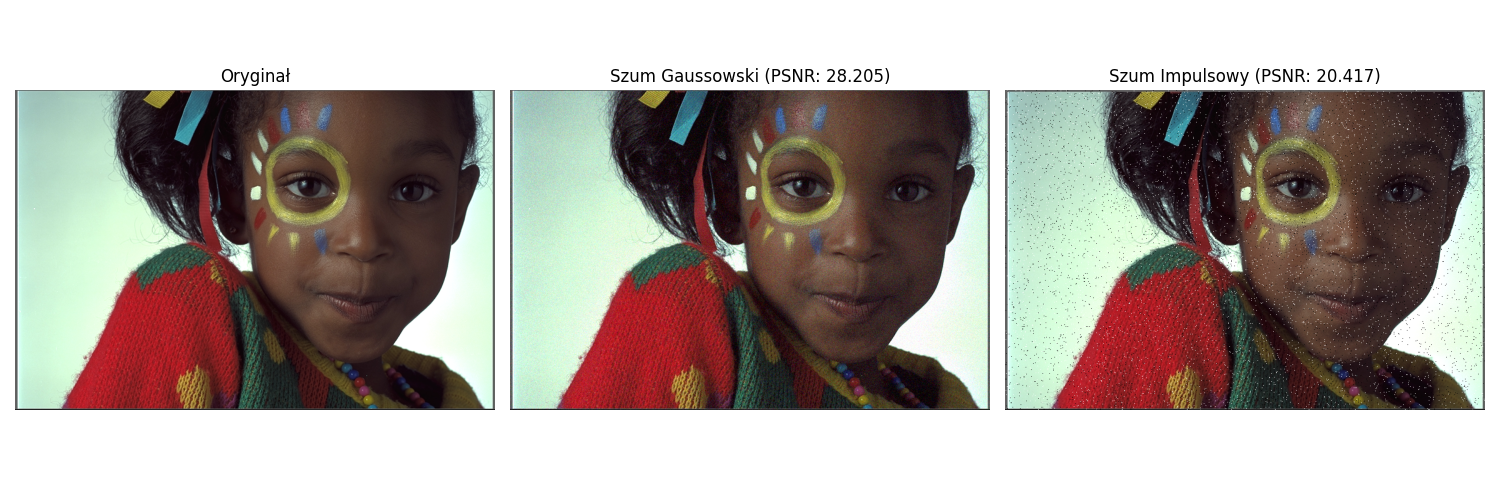
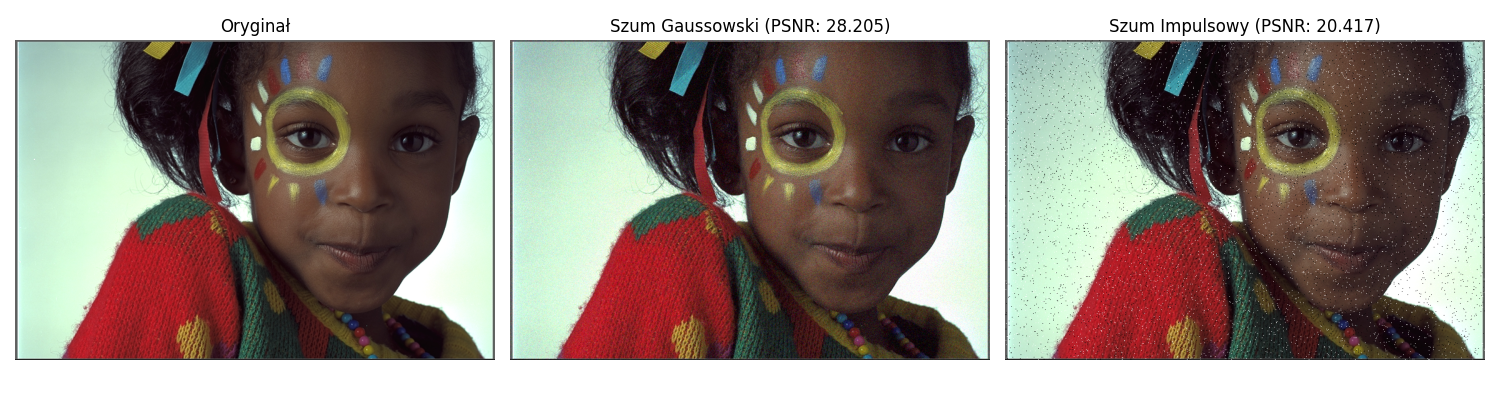
fixed zad1

diff --git a/lab4/zad1.py b/lab4/zad1.py
@@ -2,7 +2,6 @@ import cv2
 from matplotlib import pyplot as plt
 from functions import calcPSNR
 
-
 masks = [(3, 3), (5, 5), (7, 7)]
 
 img_original = cv2.imread('./images/girl_col.png', cv2.IMREAD_UNCHANGED)
@@ -12,7 +11,7 @@ img_inoise = cv2.imread('./images/girl_col_inoise.png', cv2.IMREAD_UNCHANGED)
 psnr_noise = calcPSNR(img_original, img_noise)
 psnr_inoise = calcPSNR(img_original, img_inoise)
 
-fig, axes = plt.subplots(1, 3, figsize=(15, 5))
+fig, axes = plt.subplots(1, 3, figsize=(15, 4))
 
 axes[0].imshow(cv2.cvtColor(img_original, cv2.COLOR_BGR2RGB))
 axes[0].set_title("Oryginał")
@@ -37,17 +36,36 @@ for mask in masks:
     img_median_blur = cv2.medianBlur(img_inoise, mask[0])
     psnr_median = calcPSNR(img_original, img_median_blur)
 
-    fig, axes = plt.subplots(1, 2, figsize=(10, 5))
+    fig, axes = plt.subplots(1, 2, figsize=(10, 4))
 
     axes[0].imshow(cv2.cvtColor(img_gaussian_blur, cv2.COLOR_BGR2RGB))
-    axes[0].set_title(f"Gauss {mask} (PSNR: {psnr_gauss:.2f})")
+    axes[0].set_title(f"Filtr Gaussa {mask} (PSNR: {psnr_gauss:.2f})")
     axes[0].axis('off')
 
     axes[1].imshow(cv2.cvtColor(img_median_blur, cv2.COLOR_BGR2RGB))
-    axes[1].set_title(f"Median {mask} (PSNR: {psnr_median:.2f})")
+    axes[1].set_title(f"Filtr medianowy {mask} (PSNR: {psnr_median:.2f})")
     axes[1].axis('off')
 
     plt.tight_layout()
-    filename = f"./images/zad1_maska_{mask[0]}x{mask[1]}.png"
-    plt.savefig(filename)
+    plt.savefig(f"./images/zad1_noise_maska_{mask[0]}x{mask[1]}.png")
+    plt.close()
+
+    img_gaussian_blur_inoise = cv2.GaussianBlur(img_inoise, mask, 0)
+    psnr_gauss_inoise = calcPSNR(img_original, img_gaussian_blur_inoise)
+
+    img_median_blur_inoise = cv2.medianBlur(img_inoise, mask[0])
+    psnr_median_inoise = calcPSNR(img_original, img_median_blur_inoise)
+
+    fig, axes = plt.subplots(1, 2, figsize=(10, 4))
+
+    axes[0].imshow(cv2.cvtColor(img_gaussian_blur_inoise, cv2.COLOR_BGR2RGB))
+    axes[0].set_title(f"Filtr Gaussa {mask} (PSNR: {psnr_gauss_inoise:.2f})")
+    axes[0].axis('off')
+
+    axes[1].imshow(cv2.cvtColor(img_median_blur_inoise, cv2.COLOR_BGR2RGB))
+    axes[1].set_title(f"Filtr medianowy {mask} (PSNR: {psnr_median_inoise:.2f})")
+    axes[1].axis('off')
+
+    plt.tight_layout()
+    plt.savefig(f"./images/zad1_inoise_maska_{mask[0]}x{mask[1]}.png")
     plt.close()
